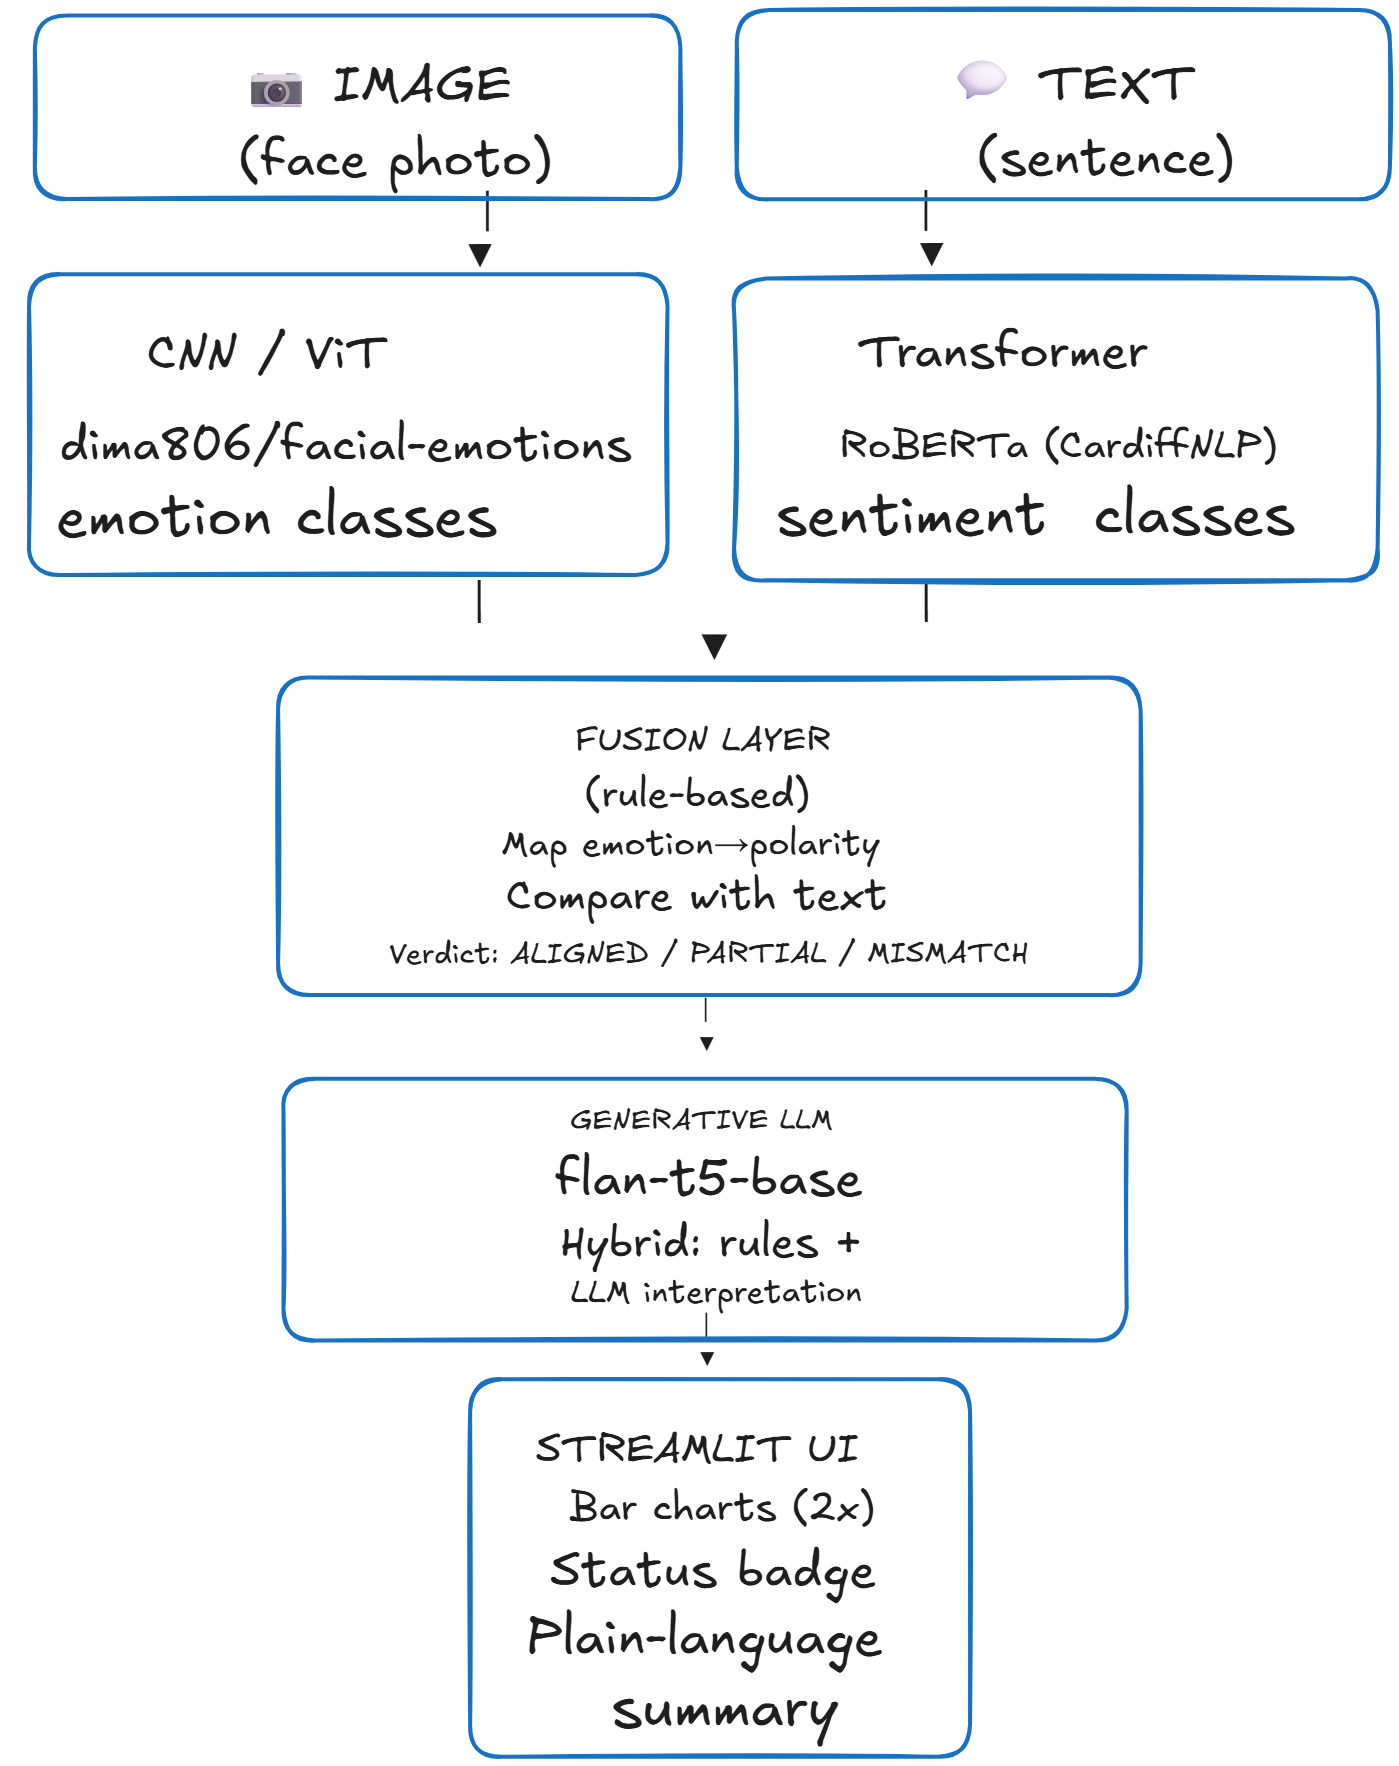
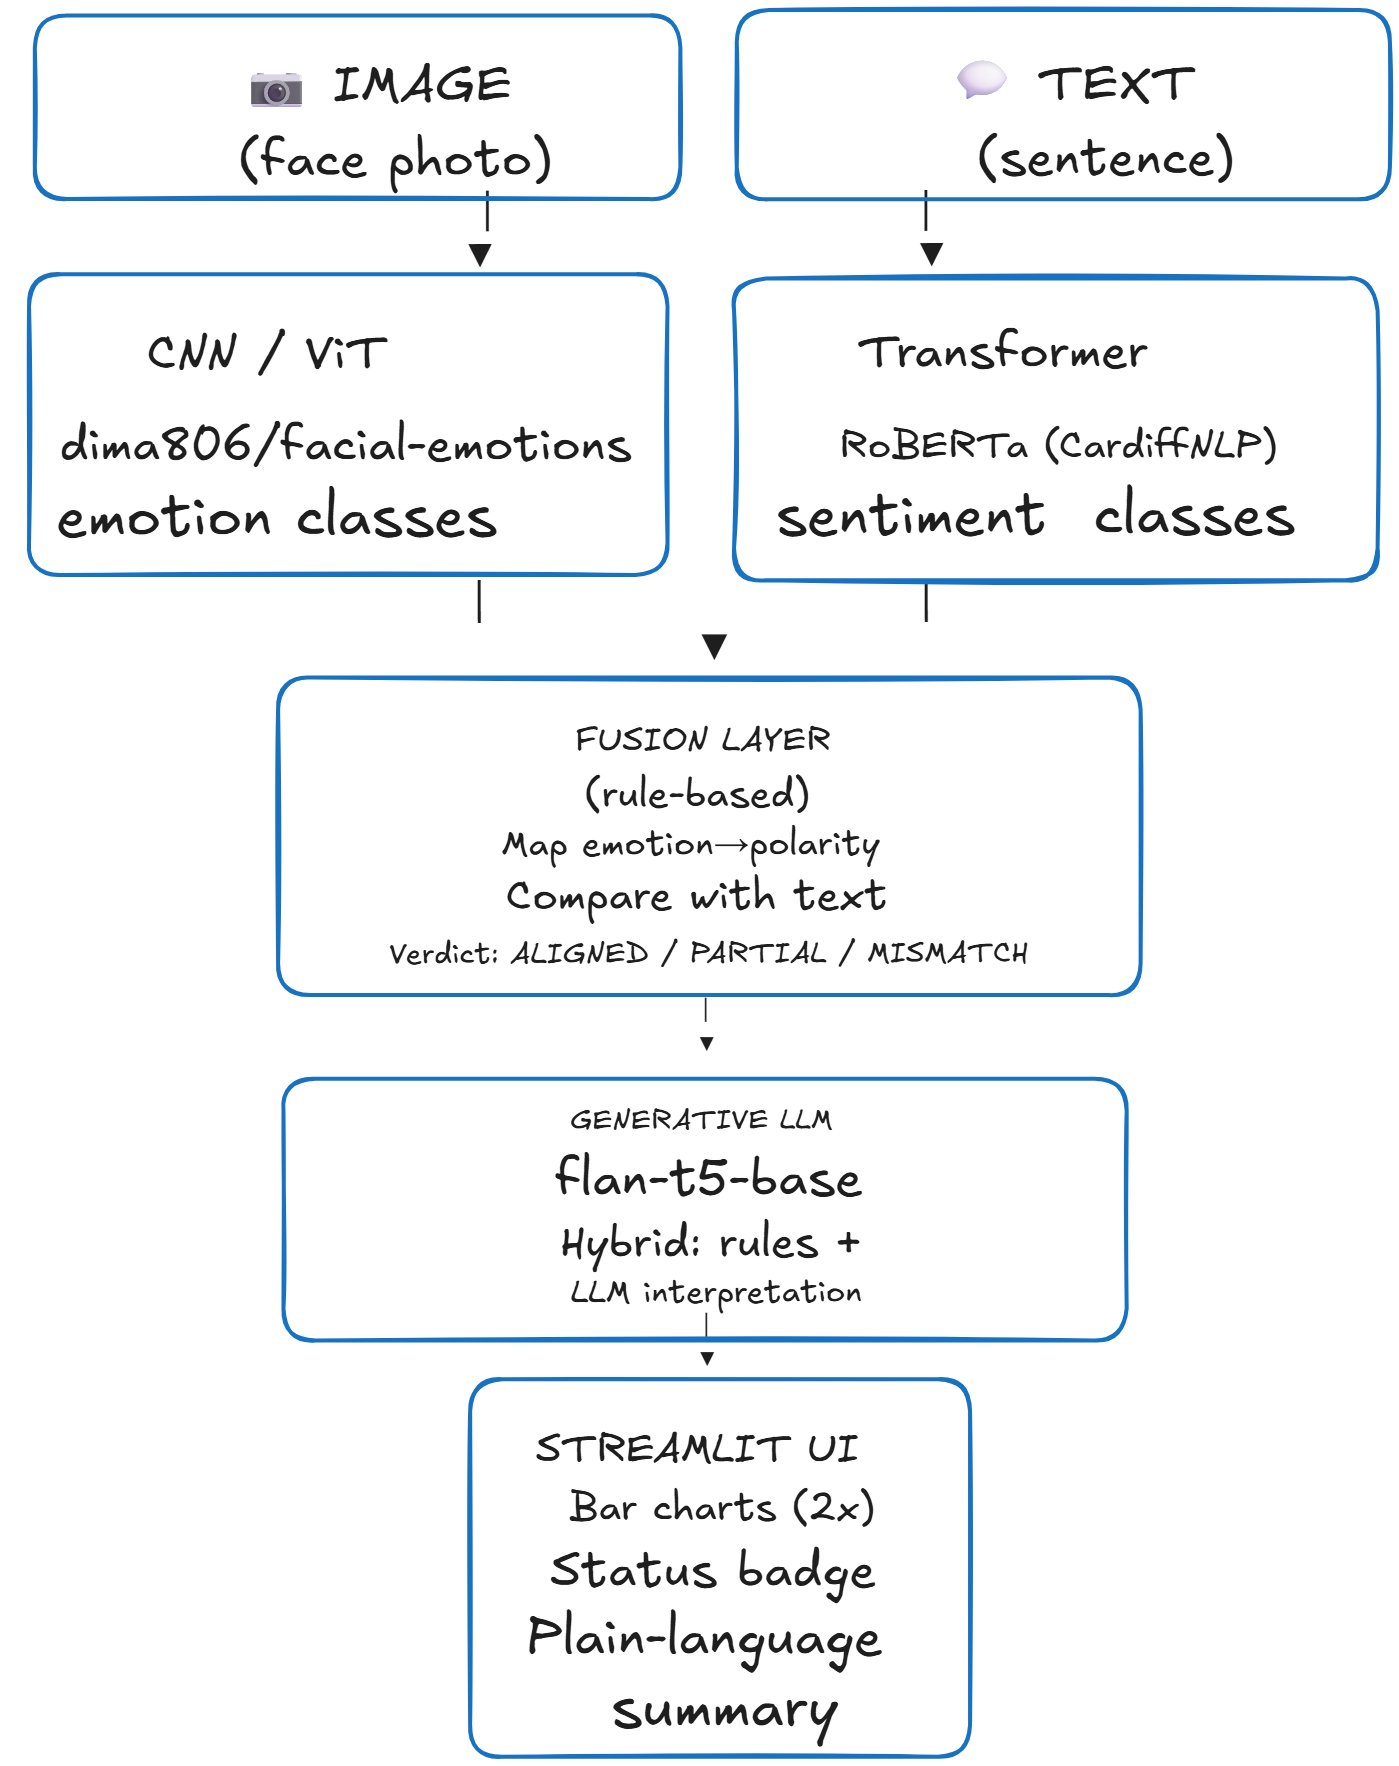
Add architecture diagram, file tree, and demo screenshots

diff --git a/README.md b/README.md
@@ -1,4 +1,4 @@
-# MoodSyncAI
+# MoodSyncAI
 
 **Multi-Modal Sentiment & Emotion Analyser**
 
@@ -10,18 +10,23 @@ Author: Veera Raghava Mallikarjuna Naidu Bhogadi
 
 ## Overview
 
-MoodSyncAI analyses a person''s emotional state by combining **two input modalities**:
+MoodSyncAI analyses a person's emotional state by combining **two input modalities**:
 
 1. **Visual** — a facial image, classified by a pretrained Vision Transformer (ViT)
 2. **Verbal** — a typed sentence, classified by a pretrained Transformer (RoBERTa)
 
 A **fusion layer** compares the two predictions and detects whether the visual and verbal signals are aligned or in conflict. A **generative language model** (flan-t5-base) then produces a plain-language summary explaining what the combined signals likely mean.
 
-The system surfaces emotional incongruences — for example, when a person verbally says *"I''m fine"* but their face shows distress.
+The system surfaces emotional incongruences — for example, when a person verbally says *"I'm fine"* but their face shows distress.
 
 ---
 
 ## Architecture
+
+![MoodSyncAI architecture](screenshots/architecture.png)
+
+Two pretrained models run in parallel: a Vision Transformer (`dima806/facial_emotions_image_detection`) classifies the face image into one of seven emotion classes, while a RoBERTa transformer (`cardiffnlp/twitter-roberta-base-sentiment-latest`) classifies the text into a sentiment polarity. A **rule-based fusion layer** maps each visual emotion onto a sentiment polarity and compares it against the text result, emitting one of three verdicts: `ALIGNED`, `PARTIAL MISMATCH`, or `MISMATCH DETECTED`. A **generative model** (`google/flan-t5-base`) then produces a one-sentence interpretation, wrapped in a Streamlit UI that exposes the per-class probability bars, the fusion status badge, and the plain-language summary.
+
 ---
 
 ## Models used
@@ -37,6 +42,27 @@ All three are downloaded automatically on first run from the Hugging Face Hub. T
 ---
 
 ## File structure
+
+```
+moodsync-ai/
+├── app.py                       # Streamlit UI (entry point)
+├── cnn_emotion.py               # Facial emotion classifier (ViT)
+├── text_sentiment.py            # Text sentiment classifier (RoBERTa)
+├── fusion.py                    # Multimodal fusion layer (rule-based)
+├── summary.py                   # Hybrid generative summary (rules + flan-t5-base)
+├── attention_rollout.py         # ViT attention rollout heatmap (Extended Feature 3)
+├── audio_transcribe.py          # Whisper audio transcription (Extended Feature 2)
+├── README.md                    # This file
+├── Documentation.pdf            # eCampus submission item 1
+├── MoodSyncAI_Presentation.pdf  # eCampus submission item 3
+├── MoodSyncAI_Presentation.pptx # Editable source of the presentation
+├── .gitignore
+└── screenshots/
+    ├── architecture.png         # System architecture diagram
+    ├── streamlit_demo.png       # Streamlit UI in MISMATCH state
+    └── attention_rollout_demo.png # Attention heatmap example
+```
+
 ---
 
 ## Installation
@@ -116,6 +142,8 @@ This hybrid was a deliberate engineering choice. Asking flan-t5-base to produce 
 
 ## Example output
 
+![Streamlit UI showing MISMATCH DETECTED state](screenshots/streamlit_demo.png)
+
 **Input:**
 - Image: face showing strong anger (clenched fist, intense expression)
 - Text: *"No, I think the project is going really well."*
@@ -130,7 +158,7 @@ This hybrid was a deliberate engineering choice. Asking flan-t5-base to produce 
 | Agreement      | 25.2 %             | —          |
 
 **Generative summary:**
-> *The visual analysis detected ''angry'' (52% confidence) while the verbal sentiment was classified as ''positive'' (96% confidence). This is a clear incongruence: the facial cues suggest one emotional state while the verbal content suggests another. A person might say something positive while their face shows anger.*
+> *The visual analysis detected 'angry' (52% confidence) while the verbal sentiment was classified as 'positive' (96% confidence). This is a clear incongruence: the facial cues suggest one emotional state while the verbal content suggests another. A person might say something positive while their face shows anger.*
 
 ---
 
@@ -146,11 +174,10 @@ This hybrid was a deliberate engineering choice. Asking flan-t5-base to produce 
 
 ## Limitations and future work
 
-- **No webcam / real-time video input.** Image upload only. Adding webcam capture (extended feature 1 in the brief) is a clear next step.
-- **No audio modality.** Text input is typed, not transcribed. Adding Whisper for speech-to-text (extended feature 2) would make the third modality possible.
-- **Rule-based fusion.** A learned fusion network (extended feature 5) would adapt better to ambiguous cases but requires labelled training data.
-- **No attention visualisation.** Grad-CAM for the CNN and attention maps for RoBERTa would help users understand which facial regions and which tokens drove a prediction (extended feature 4).
+- **No real-time video timeline.** The webcam captures a still frame rather than a continuous stream. Frame-by-frame emotion tracking over a speaking turn would be the natural next step.
+- **Rule-based fusion.** A learned fusion network (extended feature 5 in the brief) would adapt better to ambiguous cases but requires labelled training data with ground-truth incongruence labels, which is not publicly available.
 - **Generative summary quality is limited by flan-t5-base.** A larger model (e.g. flan-t5-large or an API-based GPT-class model) would produce more nuanced explanations. The hybrid template approach in this implementation guards against catastrophic failures regardless of LLM quality.
+- **No cloud deployment.** The app runs locally because hosting all four models (ViT, RoBERTa, Whisper, flan-t5-base — totalling ~3 GB) requires a paid tier on most free-deployment services.
 
 ---
 
@@ -174,7 +201,6 @@ Each core requirement of the assignment maps to specific lectures from the Data 
 - **Google Research** for the **flan-t5-base** model.
 - **Prof. Dr. Gayan de Silva** for course direction and the assignment brief.
 
-
 ---
 
 ## Extended Features Implemented
@@ -196,6 +222,8 @@ The user can also still type text manually if they prefer. The tiny variant of W
 File: `audio_transcribe.py`
 
 ### 3. ViT attention rollout heatmap
+
+![Attention rollout heatmap example](screenshots/attention_rollout_demo.png)
 
 A visualisation of which facial regions the Vision Transformer attended to when predicting the emotion. Implements the **attention rollout** technique from Abnar & Zuidema (ACL 2020):
 
@@ -219,4 +247,3 @@ File: `attention_rollout.py`
 - **Real-time video timeline** — out of scope for the available time; the existing webcam capture is a still frame rather than a continuous video stream.
 - **Learned fusion network** — would require paired image-text data with ground-truth incongruence labels, which is not publicly available. The current rule-based fusion was the pragmatic alternative.
 - **Hugging Face Spaces / Streamlit Cloud deployment** — the app runs locally because hosting all three models (CNN, RoBERTa, Whisper, flan-t5-base, totalling ~3 GB) requires a paid tier on most free-deployment services.
-
